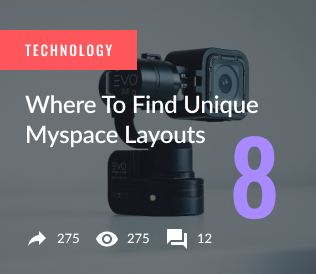
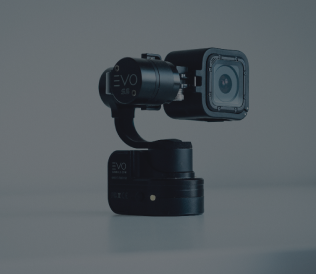
:lipstick: Create aside technology article

diff --git a/index.html b/index.html
@@ -205,6 +205,35 @@
         </div>
       </div>
     </article>
+    <article id="technology">
+      <h2>TECHNOLOGY</h2>
+      <div class="contents">
+        <h1>Where To Find Unique Myspace Layouts</h1>
+        <div class="article_info">
+          <span
+            ><img
+              class="share"
+              src="./assets/share.svg"
+              alt="share icon"
+            />275</span
+          >
+          <span
+            ><img
+              class="views"
+              src="./assets/views.svg"
+              alt="views icon"
+            />275</span
+          >
+          <span
+            ><img
+              class="comments"
+              src="./assets/comments.svg"
+              alt="comments icon"
+            />12</span
+          >
+        </div>
+      </div>
+    </article>
     <footer></footer>
   </body>
 </html>

diff --git a/style.css b/style.css
@@ -488,3 +488,45 @@ article {
 
   margin-bottom: 44px;
 }
+
+/* technology */
+
+#technology {
+  background-image: url(./assets/aside_technology_bg.png);
+
+  display: flex;
+  flex-direction: column;
+}
+
+#technology > h2 {
+  display: flex;
+  justify-content: center;
+  align-items: center;
+
+  width: 104px;
+  height: 40px;
+
+  background-color: #ff565c;
+  letter-spacing: 1.75px;
+
+  font-size: 14px;
+
+  margin-bottom: 19px;
+  margin-top: 30px;
+}
+
+#technology > .contents {
+  margin-left: 25px;
+}
+
+#technology > .contents > h1 {
+  width: 245px;
+
+  font-family: Lato;
+  font-size: 24px;
+  font-weight: 600;
+  line-height: 30px;
+  letter-spacing: -0.2px;
+
+  margin-bottom: 44px;
+}
